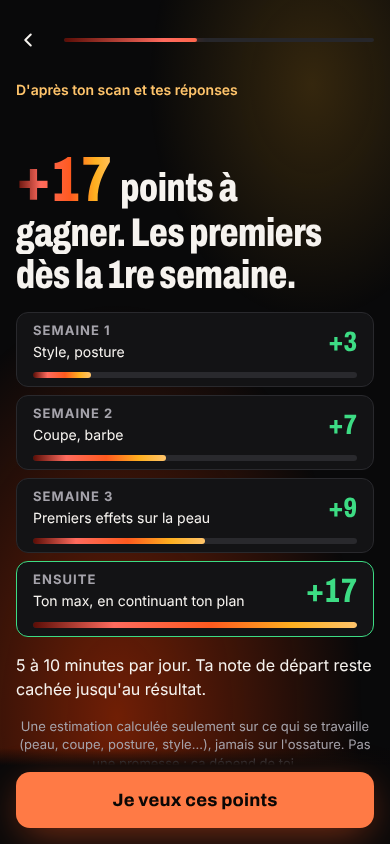
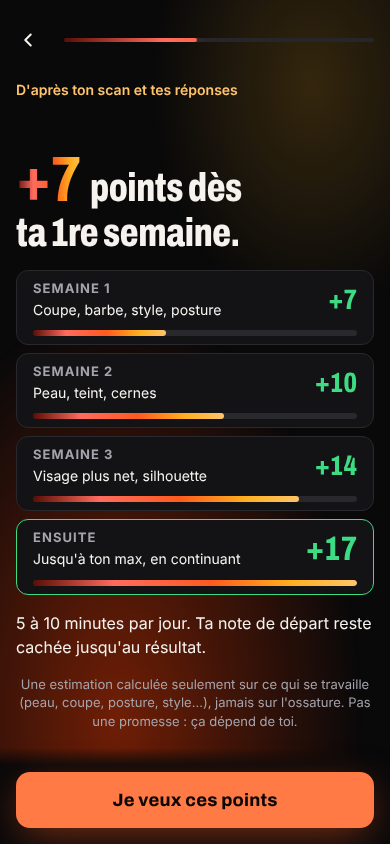
Progression : le gros du gain dès la 1re semaine (coupe, barbe, style, posture)
Claude-Session: https://claude.ai/code/session_014jgUVVEcSY5o2hZDxT4Svp

Changed region(s): [[0.0308, 0.1848, 0.9538, 0.8934]]

diff --git a/src/q/app.js b/src/q/app.js
@@ -291,10 +291,10 @@ const VIEWS = {
     </main>`;
     if (S.scan === "done" && t?.scanned && Number(t.gain) > 0) return `<main class="screen screen--ember">${topbar()}
       <p class="eyebrow">D'après ton scan et tes réponses</p>
-      <h1 class="title title--hero" tabindex="-1"><span class="big-gain">+${esc(t.gain)}</span> point${t.gain > 1 ? "s" : ""} à gagner.${earlyOk(t) ? " Les premiers dès la 1re semaine." : ""}</h1>
+      <h1 class="title title--hero" tabindex="-1">${earlyOk(t) ? `<span class="big-gain">+${esc(t.early[0])}</span> point${t.early[0] > 1 ? "s" : ""} dès ta 1re semaine.` : `<span class="big-gain">+${esc(t.gain)}</span> point${t.gain > 1 ? "s" : ""} à gagner.`}</h1>
       ${earlyOk(t) ? `<ol class="climb" aria-label="Ta progression estimée">
-        ${[["Semaine 1", "Style, posture"], ["Semaine 2", `Coupe, ${S.answers.genre === "femme" ? "sourcils" : "barbe"}`], ["Semaine 3", "Premiers effets sur la peau"]].map(([when, what], k) => `<li class="climb__step"><span class="climb__when">${when}</span><b class="climb__pts">+${esc(t.early[k])}</b><span class="climb__what">${what}</span><i class="climb__bar" style="--w:${Math.max(12, Math.round((100 * t.early[k]) / t.gain))}%;--d:${k * 0.25}s"></i></li>`).join("")}
-        <li class="climb__step climb__step--max"><span class="climb__when">Ensuite</span><b class="climb__pts">+${esc(t.gain)}</b><span class="climb__what">Ton max, en continuant ton plan</span><i class="climb__bar" style="--w:100%;--d:.75s"></i></li>
+        ${[["Semaine 1", `Coupe, ${S.answers.genre === "femme" ? "sourcils" : "barbe"}, style, posture`], ["Semaine 2", "Peau, teint, cernes"], ["Semaine 3", "Visage plus net, silhouette"]].map(([when, what], k) => `<li class="climb__step"><span class="climb__when">${when}</span><b class="climb__pts">+${esc(t.early[k])}</b><span class="climb__what">${what}</span><i class="climb__bar" style="--w:${Math.max(12, Math.round((100 * t.early[k]) / t.gain))}%;--d:${k * 0.25}s"></i></li>`).join("")}
+        <li class="climb__step climb__step--max"><span class="climb__when">Ensuite</span><b class="climb__pts">+${esc(t.gain)}</b><span class="climb__what">Jusqu'à ton max, en continuant</span><i class="climb__bar" style="--w:100%;--d:.75s"></i></li>
       </ol>` : ""}
       <p class="lead">5 à 10 minutes par jour. Ta note de départ reste cachée jusqu'au résultat.</p>
       <p class="legal">Une estimation calculée seulement sur ce qui se travaille (peau, coupe, posture, style…), jamais sur l'ossature. Pas une promesse : ça dépend de toi.</p>

diff --git a/src/shared/factors.js b/src/shared/factors.js
@@ -45,14 +45,14 @@ export function potential(scores) {
   return Math.max(overall(scores), Math.min(95, overall(raised(scores))));
 }
 
-// Les 3 premiers paliers (décidé par Maël le 28/11/2026 : des résultats dès les premières semaines), cumulés :
-// semaine 1 : vêtements et posture (ça change tout de suite) ;
-// semaine 2 : + coupe, barbe ou sourcils (un passage chez le coiffeur, une taille) ;
-// semaine 3 : + la moitié de ce que la peau et le teint peuvent gagner (les premiers effets de la routine).
+// Les 3 premiers paliers, cumulés (décidé par Maël le 28/11/2026 : de gros résultats tout de suite) :
+// semaine 1 : tout ce qui change en une journée : vêtements, posture, coupe, barbe ou sourcils ;
+// semaine 2 : + la moitié de ce que la peau, le teint et les cernes peuvent gagner ;
+// semaine 3 : + peau, teint et cernes en entier, la moitié de la silhouette et de la mâchoire (dégonfler, double menton).
 const STEPS = [
-  { tenue: 1, posture: 1 },
   { tenue: 1, posture: 1, coiffure: 1, pilosite: 1 },
-  { tenue: 1, posture: 1, coiffure: 1, pilosite: 1, peau_qualite: 0.5, peau_teint: 0.5 },
+  { tenue: 1, posture: 1, coiffure: 1, pilosite: 1, peau_qualite: 0.5, peau_teint: 0.5, yeux: 0.5 },
+  { tenue: 1, posture: 1, coiffure: 1, pilosite: 1, peau_qualite: 1, peau_teint: 1, yeux: 1, corps: 0.5, machoire: 0.5 },
 ];
 export function earlyGains(scores) {
   const now = overall(scores), max = potential(scores);
